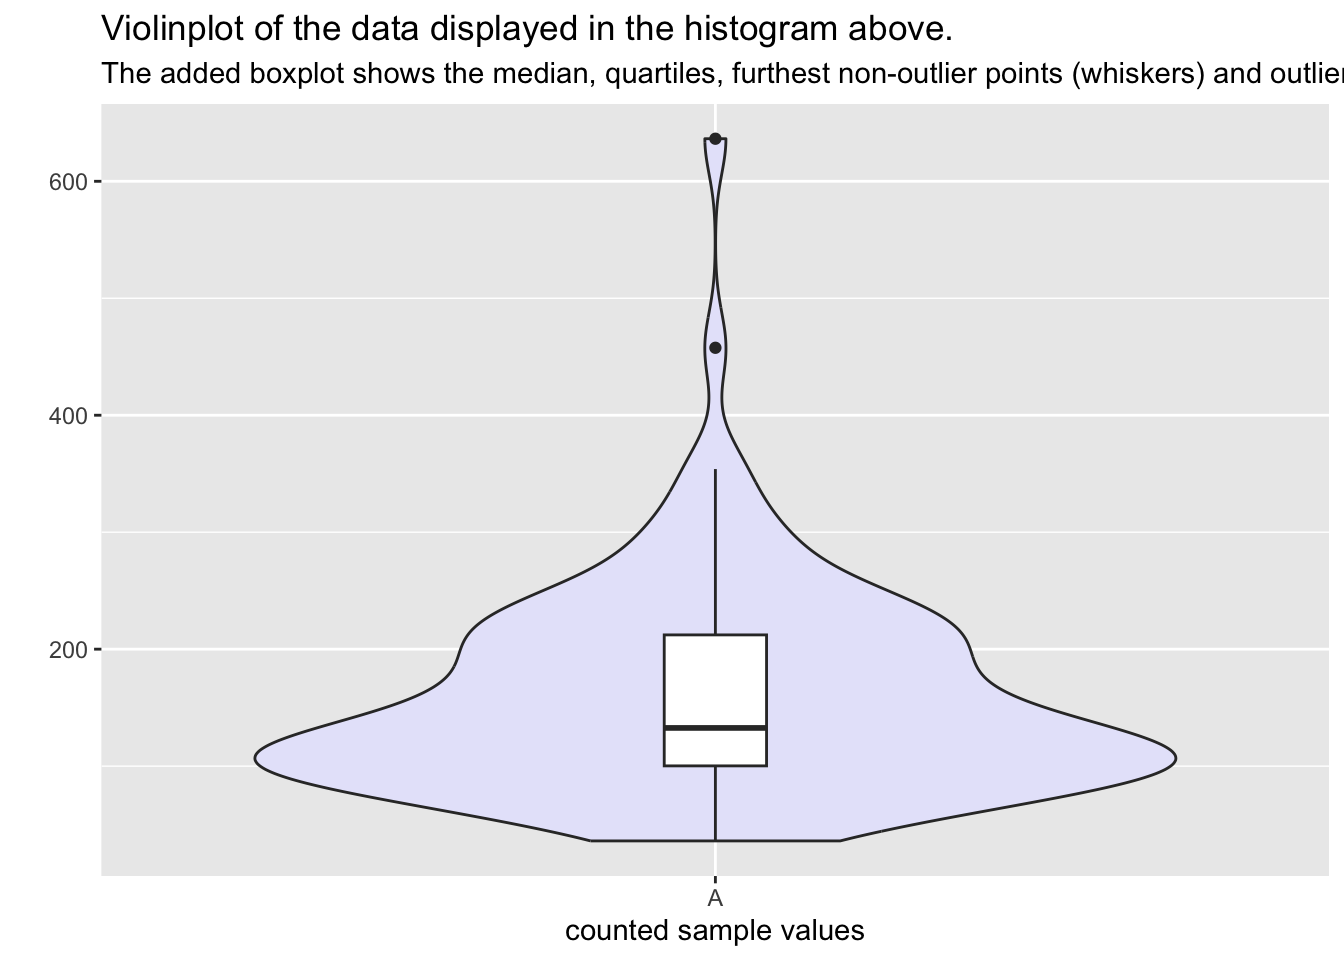
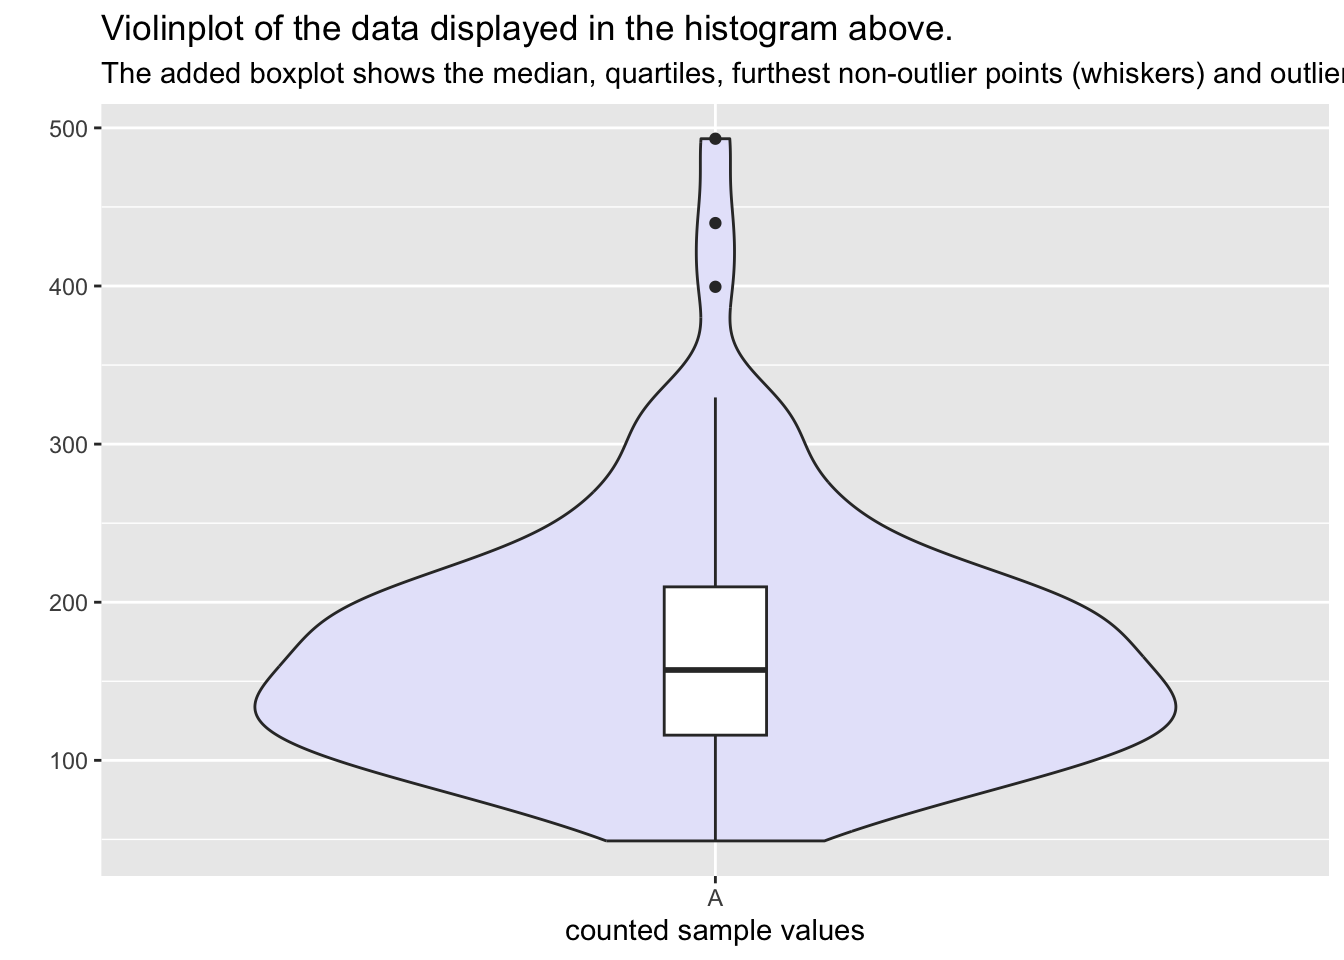
Final submission

diff --git a/exercise_01_sta426_staebler_jann.html b/exercise_01_sta426_staebler_jann.html
@@ -116,7 +116,8 @@ pre > code.sourceCode > span > a:first-child::before { text-decoration: underlin
 <h2 class="anchored" data-anchor-id="part-i-sampling">Part I: Sampling</h2>
 <p>Let’s sample 100 values from a log-normal distribution</p>
 <div class="cell">
-<div class="sourceCode cell-code" id="cb2"><pre class="sourceCode r code-with-copy"><code class="sourceCode r"><span id="cb2-1"><a href="#cb2-1" aria-hidden="true" tabindex="-1"></a>a <span class="ot">&lt;-</span> <span class="fu">rlnorm</span>(<span class="dv">100</span>, <span class="at">meanlog=</span><span class="dv">5</span>, <span class="at">sdlog=</span><span class="fl">0.5</span>) <span class="co"># a is our vector of the sample with mu=5 and sigma=0.5</span></span></code><button title="Copy to Clipboard" class="code-copy-button"><i class="bi"></i></button></pre></div>
+<div class="sourceCode cell-code" id="cb2"><pre class="sourceCode r code-with-copy"><code class="sourceCode r"><span id="cb2-1"><a href="#cb2-1" aria-hidden="true" tabindex="-1"></a><span class="fu">set.seed</span>(<span class="dv">1</span>) <span class="co"># for reproducibility </span></span>
+<span id="cb2-2"><a href="#cb2-2" aria-hidden="true" tabindex="-1"></a>a <span class="ot">&lt;-</span> <span class="fu">rlnorm</span>(<span class="dv">100</span>, <span class="at">meanlog=</span><span class="dv">5</span>, <span class="at">sdlog=</span><span class="fl">0.5</span>) <span class="co"># a is our vector of the sample with mu=5 and sigma=0.5</span></span></code><button title="Copy to Clipboard" class="code-copy-button"><i class="bi"></i></button></pre></div>
 </div>
 </section>
 <section id="part-ii-plotting" class="level2">
@@ -125,7 +126,7 @@ pre > code.sourceCode > span > a:first-child::before { text-decoration: underlin
 <h4 class="anchored" data-anchor-id="original-values">Original values</h4>
 <p>Let’s first plot the non-transformed histogram:</p>
 <div class="cell">
-<div class="sourceCode cell-code" id="cb3"><pre class="sourceCode r code-with-copy"><code class="sourceCode r"><span id="cb3-1"><a href="#cb3-1" aria-hidden="true" tabindex="-1"></a>df <span class="ot">&lt;-</span> <span class="fu">data.frame</span>(<span class="at">value=</span>a, <span class="at">A=</span><span class="fu">c</span>(<span class="fu">rep</span>(<span class="st">"A"</span>)))  <span class="co"># creating a small data frame</span></span>
+<div class="sourceCode cell-code" id="cb3"><pre class="sourceCode r code-with-copy"><code class="sourceCode r"><span id="cb3-1"><a href="#cb3-1" aria-hidden="true" tabindex="-1"></a>df <span class="ot">&lt;-</span> <span class="fu">data.frame</span>(<span class="at">value=</span>a, <span class="at">A=</span><span class="fu">c</span>(<span class="fu">rep</span>(<span class="st">"A"</span>)))  <span class="co"># creating a little data frame with A as a dummy variable </span></span>
 <span id="cb3-2"><a href="#cb3-2" aria-hidden="true" tabindex="-1"></a></span>
 <span id="cb3-3"><a href="#cb3-3" aria-hidden="true" tabindex="-1"></a><span class="co"># Histogram</span></span>
 <span id="cb3-4"><a href="#cb3-4" aria-hidden="true" tabindex="-1"></a><span class="fu">ggplot</span>(df, <span class="fu">aes</span>(<span class="at">x=</span>value)) <span class="sc">+</span> </span>
@@ -173,7 +174,7 @@ pre > code.sourceCode > span > a:first-child::before { text-decoration: underlin
 </section>
 <section id="part-iii-reporting-results" class="level2">
 <h2 class="anchored" data-anchor-id="part-iii-reporting-results">Part III: Reporting results</h2>
-<p>The rounded mean of the sampled values is <strong>161</strong> and the rounded standard deviation is <strong>92</strong>.</p>
+<p>The rounded mean of the sampled values is <strong>173</strong> and the rounded standard deviation is <strong>80</strong>.</p>
 </section>
 </section>
 

diff --git a/README.md b/README.md
@@ -12,7 +12,12 @@ Some useful git commands I have already learned in this course:
 * `git push`
 * `git --version`
 
+
 Wow, it's even formatted like code – now that's exciting!
+
+### Quoting
+Let's quote a wikipedia intro on microarrays:
+> A microarray is a multiplex lab-on-a-chip. Its purpose is to simultaneously detect the expression of thousands of biological interactions. It is a two-dimensional array on a solid substrate—usually a glass slide or silicon thin-film cell—that assays (tests) large amounts of biological material using high-throughput screening miniaturized, multiplexed and parallel processing and detection methods.
 
 
 ### Pretty pictures make everything better
